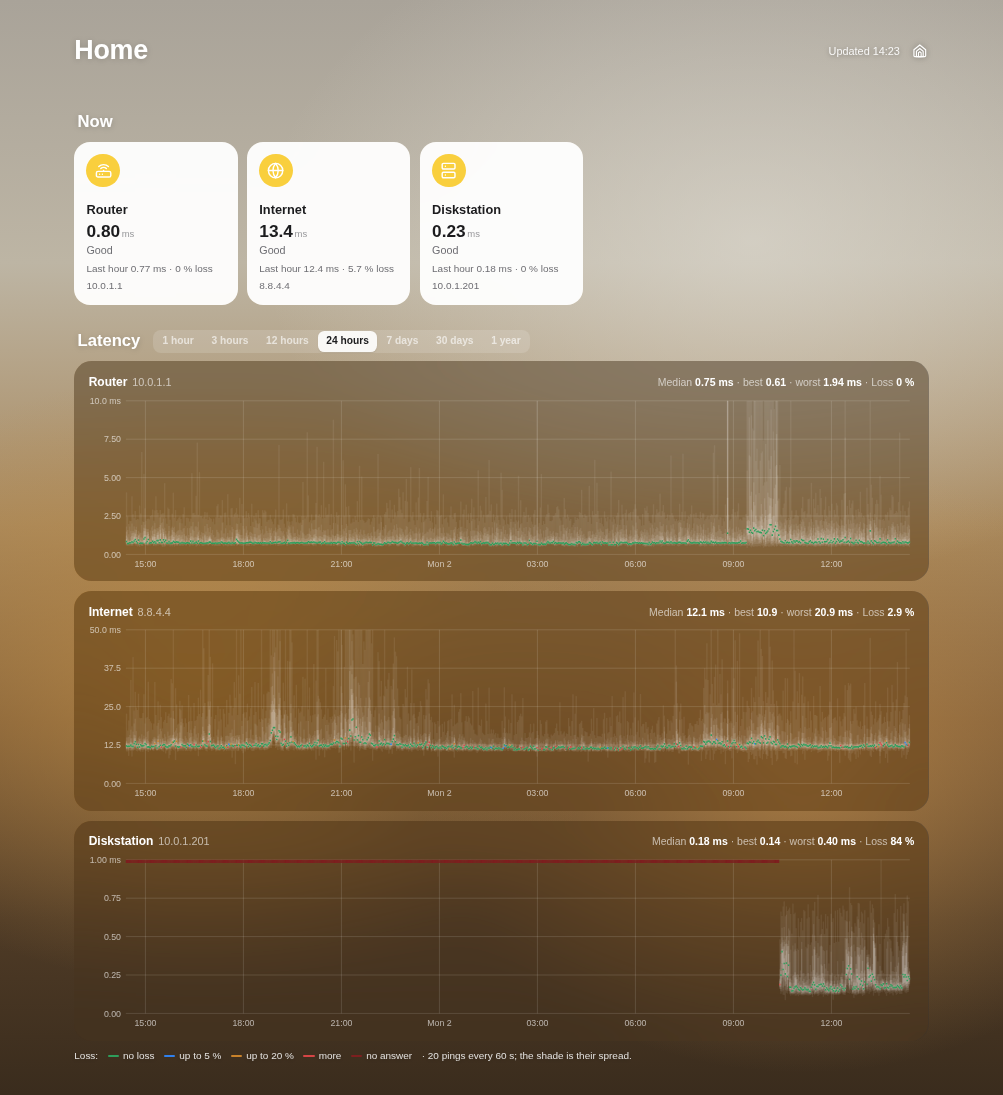
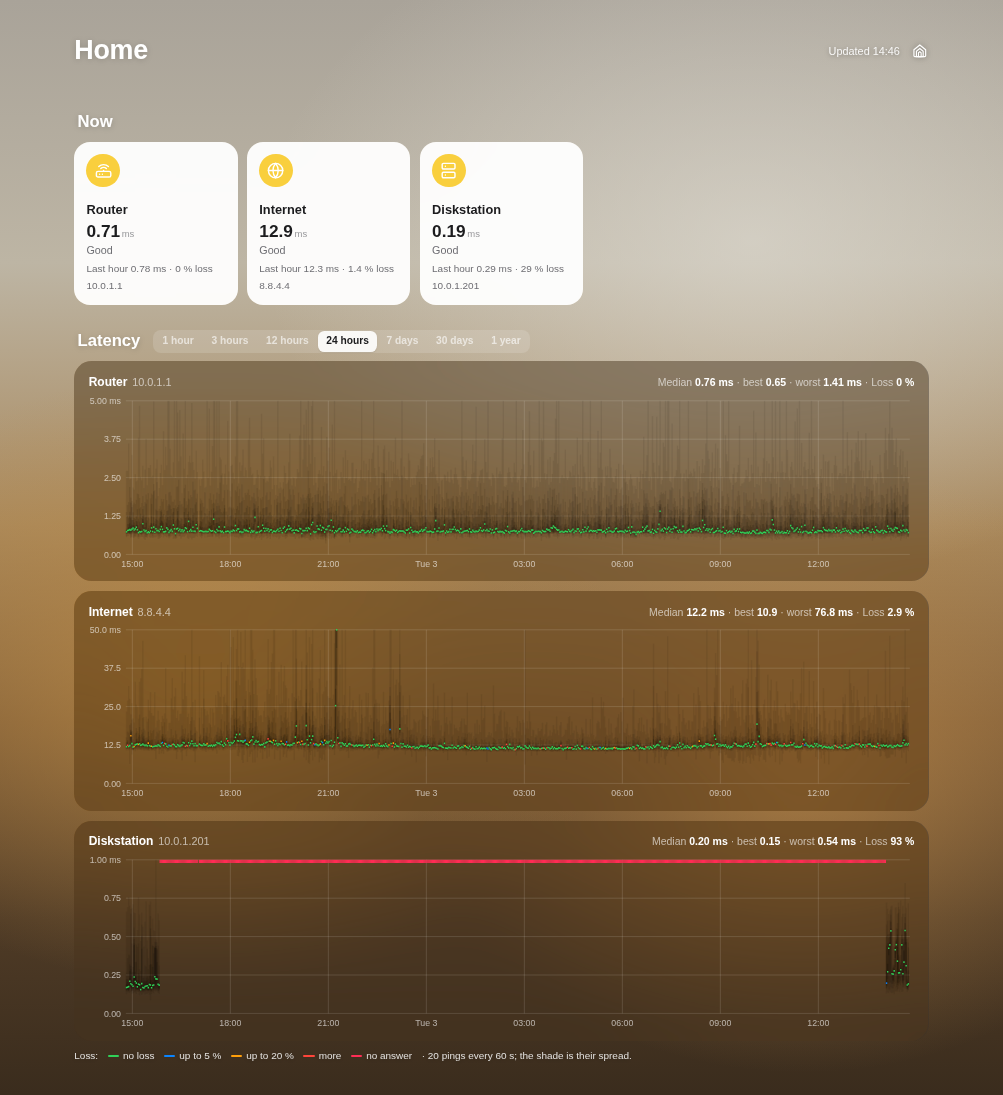
Dashboard, Home look: dark smoke and brighter loss colours
The smoke drawn in the text colour, white in the Home look, looked like
fog on the glass, and the median's loss colours were lost in it. The
loss colours are --loss-* variables now, brighter in the Home look, and
the smoke there is dark. README: the Home look described, its screenshot
retaken.

Claude-Session: https://claude.ai/code/session_01FXXeyGX9nkbXjdAycGNCsJ

diff --git a/web/dashboard.js b/web/dashboard.js
@@ -23,13 +23,14 @@
    * Smokeping's loss colours, quieter: none, a little, much, nearly all.
    * Under half a percent counts as none, as Smokeping rounds it: averaged
    * over hours, a single lost ping would otherwise colour a whole stretch.
+   * The colours are the page's --loss-* variables, brighter in the Home look.
    */
   const LOSS = [
-    { upTo: 0.005, color: '#2e9e5b', label: 'no loss' },
-    { upTo: 0.05, color: '#2f80ed', label: 'up to 5 %' },
-    { upTo: 0.2, color: '#c9822a', label: 'up to 20 %' },
-    { upTo: 0.99, color: '#d64545', label: 'more' },
-    { upTo: 1, color: '#7d1f1f', label: 'no answer' },
+    { upTo: 0.005, color: 'var(--loss-none)', label: 'no loss' },
+    { upTo: 0.05, color: 'var(--loss-little)', label: 'up to 5 %' },
+    { upTo: 0.2, color: 'var(--loss-much)', label: 'up to 20 %' },
+    { upTo: 0.99, color: 'var(--loss-more)', label: 'more' },
+    { upTo: 1, color: 'var(--loss-all)', label: 'no answer' },
   ];
 
   /** The time axis per range: a line every so often, and what it says. Midnight says the day. */
@@ -288,12 +289,12 @@
         return;
       }
       if (p.median === null) {
-        chart.append(svg('rect', { x: left + i * slot, y: 6, width: Math.max(slot, 1.5), height: 4, fill: lossColor(1) }));
+        chart.append(svg('rect', { x: left + i * slot, y: 6, width: Math.max(slot, 1.5), height: 4, style: `fill: ${lossColor(1)}` }));
         return;
       }
       chart.append(svg('line', {
         x1: left + i * slot, x2: left + (i + 1) * slot + 0.4, y1: y(p.median), y2: y(p.median),
-        stroke: lossColor(p.loss), 'stroke-width': 2, 'stroke-linecap': 'butt',
+        style: `stroke: ${lossColor(p.loss)}`, 'stroke-width': 2, 'stroke-linecap': 'butt',
       }));
     });
 

diff --git a/web/index.html b/web/index.html
@@ -23,6 +23,7 @@
       --run: #2e9e5b; --run-bg: rgba(46,158,91,.12); --off: #b0b6bf; --warn: #c9822a; --bad: #d64545; --accent: #2f80ed;
       --dark-bg: #15181c; --dark-card: #1f2329; --dark-text: #e6e8eb; --dark-muted: #949ba6; --dark-line: rgba(160,160,160,.18);
       --dark-run: #4cc27e; --dark-run-bg: rgba(76,194,126,.14); --dark-off: #5b626c;
+      --loss-none: #2e9e5b; --loss-little: #2f80ed; --loss-much: #c9822a; --loss-more: #d64545; --loss-all: #7d1f1f;
     }
     @media (prefers-color-scheme: dark) {
       :root:not([data-theme="light"]) {
@@ -100,6 +101,7 @@
       --bg: #6b5338; --card: rgba(58,50,42,.46); --text: #fff; --muted: rgba(255,255,255,.62); --line: rgba(255,255,255,.16);
       --run: #fff; --run-bg: rgba(255,255,255,.18); --off: rgba(255,255,255,.4); --warn: #ffb340; --bad: #ff6961; --accent: #f9cf3d;
       --home: #f9cf3d;
+      --loss-none: #30d158; --loss-little: #0a84ff; --loss-much: #ff9f0a; --loss-more: #ff453a; --loss-all: #ff2d55;
     }
     [data-theme="home"] body::before {
       content: ""; position: fixed; inset: 0; z-index: -1;
@@ -180,6 +182,8 @@
     [data-theme="home"] .ranges { background: rgba(255,255,255,.14); }
     [data-theme="home"] .ranges button[aria-pressed="true"] { background: rgba(255,255,255,.9); color: #1c1c1e; }
     [data-theme="home"] .chart { border-radius: 22px; padding: 16px 18px 12px; }
+    /* On the glass white smoke is fog: a shadow instead, under brighter lines. */
+    [data-theme="home"] .chart .smoke { fill: #000; }
     [data-theme="home"] .scale { color: rgba(255,255,255,.85); text-shadow: 0 1px 6px rgba(0,0,0,.3); }
   </style>
   <script src="dashboard.js" defer></script>

diff --git a/README.md b/README.md
@@ -39,7 +39,7 @@ Nothing to install beside it: the pings go out through the system's own
 `ping`, and the data is kept in **SQLite**, which comes with Node.
 
 <p align="center">
-  <img src="https://raw.githubusercontent.com/rummeyer/homebridge-connection-monitor/main/docs/dashboard-home.png" alt="The dashboard in the Home look: tiles for Router (0.80 ms), Internet (13.4 ms) and Diskstation (0.23 ms), all Good, and below them 24-hour charts of each, the median a green line in the smoke of the pings, the Diskstation a red line of no answer until it was switched on in the morning" width="760">
+  <img src="https://raw.githubusercontent.com/rummeyer/homebridge-connection-monitor/main/docs/dashboard-home.png" alt="The dashboard in the Home look: tiles for Router (0.71 ms), Internet (12.9 ms) and Diskstation (0.19 ms), all Good, and below them 24-hour charts of each, the median a bright green line in the dark smoke of the pings, the Diskstation a red line of no answer between yesterday afternoon and when it was switched on again" width="760">
 </p>
 
 ## Contents
@@ -114,7 +114,9 @@ year:
   loss.
 
 **Three looks**, as Appliance Monitor's and Synology Monitor's dashboards:
-Home, light and dark, switched by the button in the header.
+Home, light and dark, switched by the button in the header. In the Home
+look the smoke is a shadow on the glass and the lines are brighter, so the
+median stands out from the wallpaper.
 
 <p align="center">
   <picture>

diff --git a/CHANGELOG.md b/CHANGELOG.md
@@ -6,6 +6,11 @@ adheres to [semantic versioning](https://semver.org/spec/v2.0.0.html).
 
 ## [Unreleased]
 
+### Changed
+
+- Dashboard, Home look: the smoke is dark instead of white, which looked
+  like fog on the glass, and the loss colours of the median are brighter.
+
 ## [2.0.2] — 2026-11-02
 
 ### Changed
